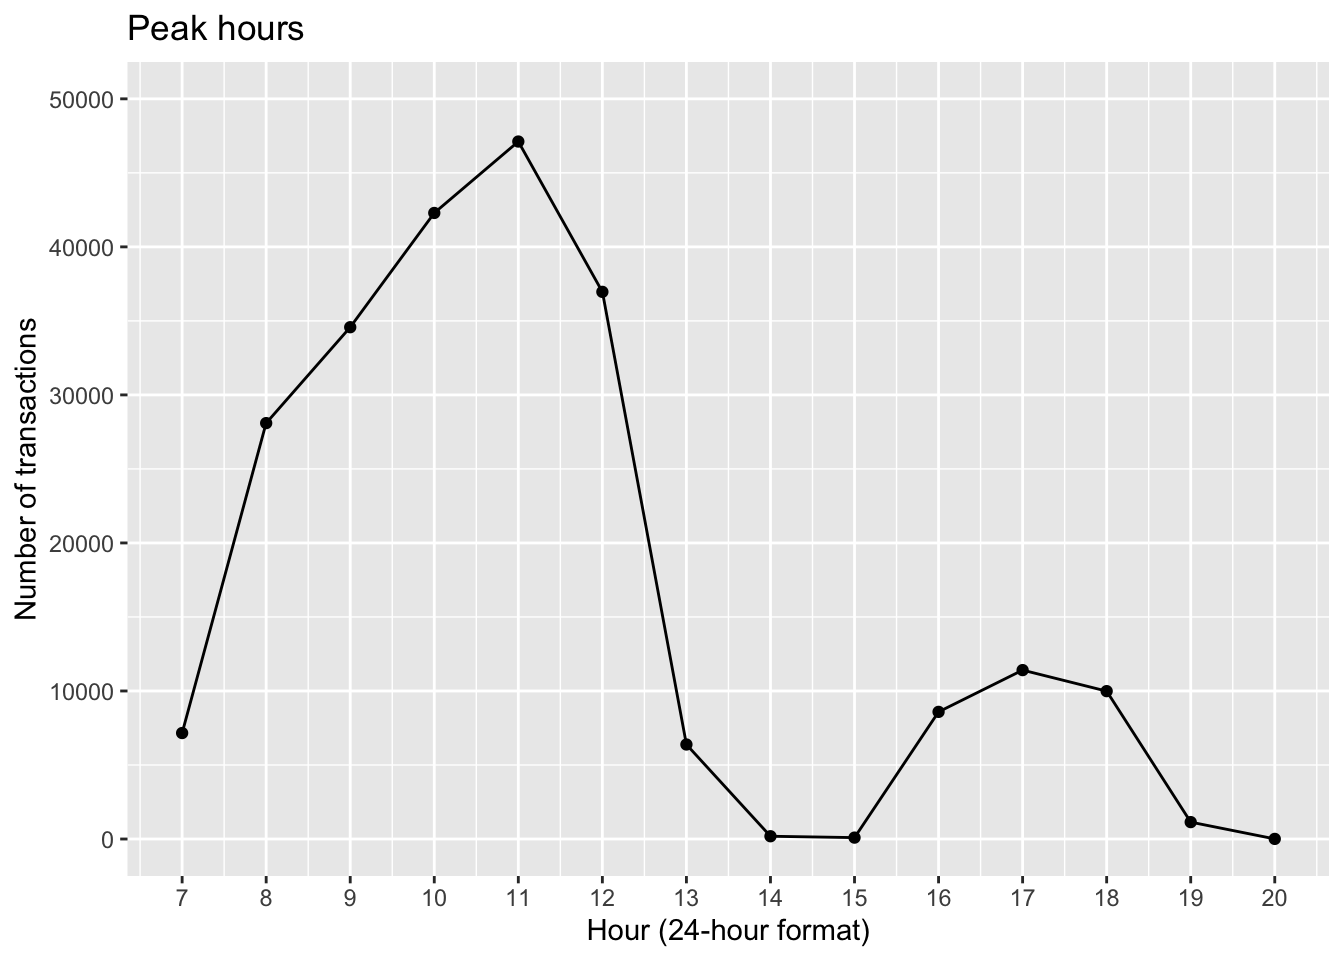
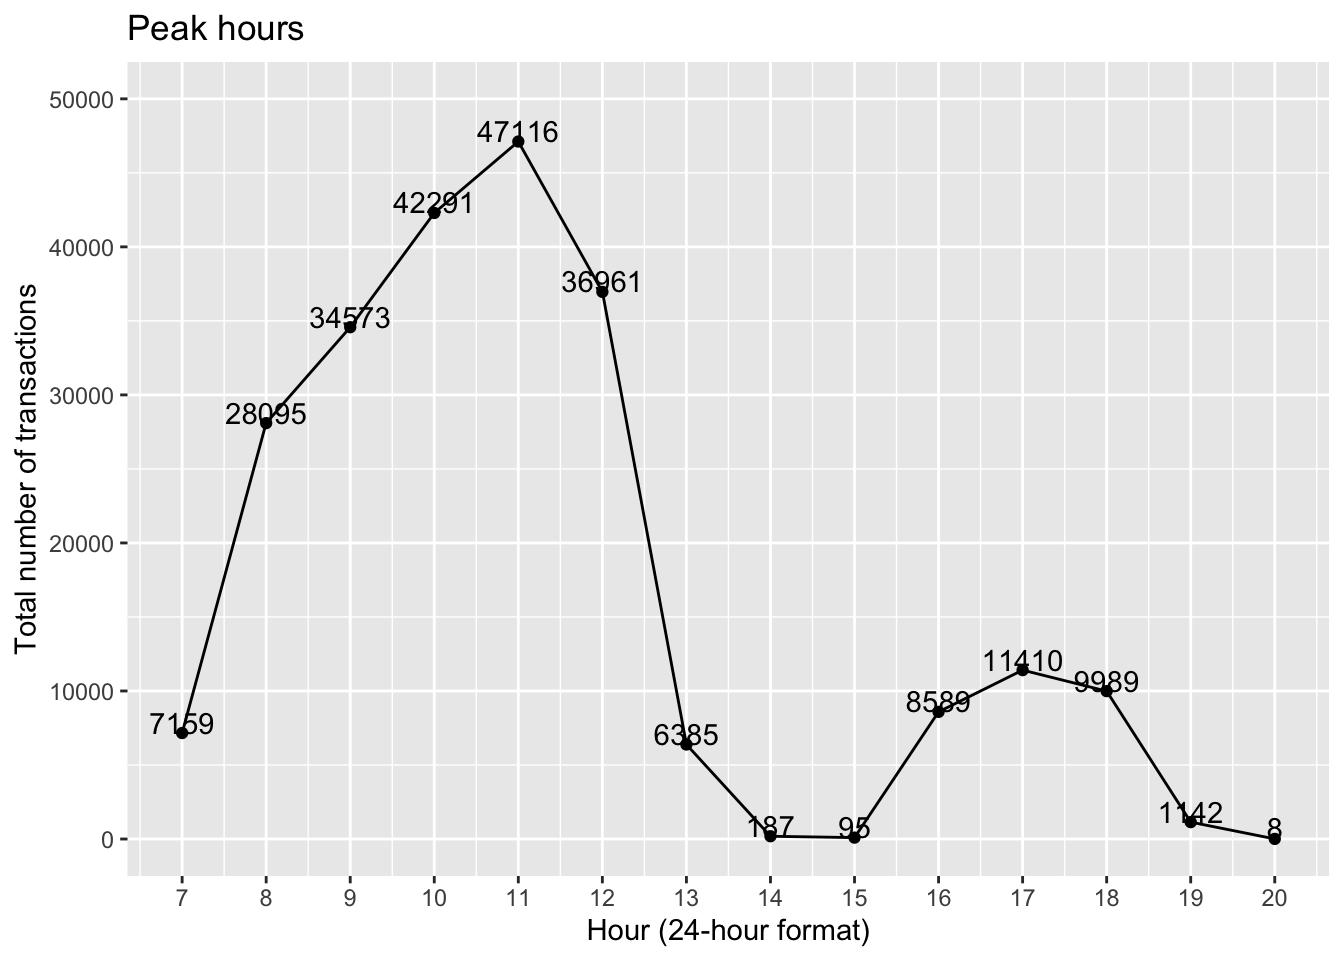
description of 24hr Time trends

diff --git a/plot.html b/plot.html
@@ -464,12 +464,23 @@ bakery_df %&gt;%
   ggplot(aes(x = Hour, y = n)) +
   geom_point() +
   geom_line() +
+  geom_text(aes(label=n), vjust = 0, nudge_y = 0.2) +
   scale_x_continuous(breaks = seq(7, 20), limit = c(7, 20)) +
   scale_y_continuous(limit = c(0,50000)) +
   labs(title = &quot;Peak hours&quot;,
        x = &quot;Hour (24-hour format)&quot;,
-       y = &quot;Number of transactions&quot;)</code></pre>
+       y = &quot;Total number of transactions&quot;)</code></pre>
 <p><img src="plot_files/figure-html/unnamed-chunk-1-1.png" width="672" /></p>
+<p>The line plot shows the bakery is open at 7 AM and closed at 20 PM.
+The total number of transactions increase dramatically once the bakery
+is open from 7 AM to 11 AM and from 15 PM to 17 PM. It reaches peak at
+11 AM (47116). In addition, the total number of transactions starts
+decreasing steeply from 11 PM to 15 PM and from 17 PM to 20 PM.
+Therefore, there are two rush hours as we expected, since people usually
+eat breads as breakfast, brunch, and afternoon tea dessert.</p>
+<p>
+ 
+</p >
 </div>
 <div id="top-10-favorite-bakery-products" class="section level3">
 <h3>Top 10 favorite bakery products</h3>
@@ -484,8 +495,8 @@ bakery_df %&gt;%
          yaxis = list(showgrid = FALSE, zeroline = FALSE, showticklabels = FALSE))
 
 plot_pie</code></pre>
-<div id="htmlwidget-996efd16032bca7eea34" style="width:672px;height:480px;" class="plotly html-widget"></div>
-<script type="application/json" data-for="htmlwidget-996efd16032bca7eea34">{"x":{"visdat":{"774924a60327":["function () ","plotlyVisDat"]},"cur_data":"774924a60327","attrs":{"774924a60327":{"labels":{},"values":{},"colors":"viridis","alpha_stroke":1,"sizes":[10,100],"spans":[1,20],"type":"pie"}},"layout":{"margin":{"b":40,"l":60,"t":25,"r":10},"xaxis":{"showgrid":false,"zeroline":false,"showticklabels":false},"yaxis":{"showgrid":false,"zeroline":false,"showticklabels":false},"hovermode":"closest","showlegend":true},"source":"A","config":{"modeBarButtonsToAdd":["hoverclosest","hovercompare"],"showSendToCloud":false},"data":[{"labels":["TRADITIONAL BAGUETTE","COUPE","BAGUETTE","BANETTE","CROISSANT","PAIN AU CHOCOLAT","SPECIAL BREAD","CEREAL BAGUETTE","FORMULE SANDWICH","BOULE 400G"],"values":[67689,20470,15292,15130,11508,10578,5195,4961,4202,4099],"type":"pie","marker":{"color":"rgba(31,119,180,1)","line":{"color":"rgba(255,255,255,1)"}},"frame":null}],"highlight":{"on":"plotly_click","persistent":false,"dynamic":false,"selectize":false,"opacityDim":0.2,"selected":{"opacity":1},"debounce":0},"shinyEvents":["plotly_hover","plotly_click","plotly_selected","plotly_relayout","plotly_brushed","plotly_brushing","plotly_clickannotation","plotly_doubleclick","plotly_deselect","plotly_afterplot","plotly_sunburstclick"],"base_url":"https://plot.ly"},"evals":[],"jsHooks":[]}</script>
+<div id="htmlwidget-91bb443258a11981b4e5" style="width:672px;height:480px;" class="plotly html-widget"></div>
+<script type="application/json" data-for="htmlwidget-91bb443258a11981b4e5">{"x":{"visdat":{"788425450211":["function () ","plotlyVisDat"]},"cur_data":"788425450211","attrs":{"788425450211":{"labels":{},"values":{},"colors":"viridis","alpha_stroke":1,"sizes":[10,100],"spans":[1,20],"type":"pie"}},"layout":{"margin":{"b":40,"l":60,"t":25,"r":10},"xaxis":{"showgrid":false,"zeroline":false,"showticklabels":false},"yaxis":{"showgrid":false,"zeroline":false,"showticklabels":false},"hovermode":"closest","showlegend":true},"source":"A","config":{"modeBarButtonsToAdd":["hoverclosest","hovercompare"],"showSendToCloud":false},"data":[{"labels":["TRADITIONAL BAGUETTE","COUPE","BAGUETTE","BANETTE","CROISSANT","PAIN AU CHOCOLAT","SPECIAL BREAD","CEREAL BAGUETTE","FORMULE SANDWICH","BOULE 400G"],"values":[67689,20470,15292,15130,11508,10578,5195,4961,4202,4099],"type":"pie","marker":{"color":"rgba(31,119,180,1)","line":{"color":"rgba(255,255,255,1)"}},"frame":null}],"highlight":{"on":"plotly_click","persistent":false,"dynamic":false,"selectize":false,"opacityDim":0.2,"selected":{"opacity":1},"debounce":0},"shinyEvents":["plotly_hover","plotly_click","plotly_selected","plotly_relayout","plotly_brushed","plotly_brushing","plotly_clickannotation","plotly_doubleclick","plotly_deselect","plotly_afterplot","plotly_sunburstclick"],"base_url":"https://plot.ly"},"evals":[],"jsHooks":[]}</script>
 <p>The pie chart shows the total of sale counts of top 10 favorite
 bakery products from 2021-01-01 to 2022-09-30. As the plot shows that
 the <code>TRADITIONAL BAGUETTE</code> (67,689; 42.5%) is the most
@@ -538,11 +549,11 @@ plot_pie_2022 =
          yaxis = list(showgrid = FALSE, zeroline = FALSE, showticklabels = FALSE))
 
 plot_pie_2021</code></pre>
-<div id="htmlwidget-d9f7fa18930ebb243133" style="width:672px;height:480px;" class="plotly html-widget"></div>
-<script type="application/json" data-for="htmlwidget-d9f7fa18930ebb243133">{"x":{"visdat":{"7749346be489":["function () ","plotlyVisDat"]},"cur_data":"7749346be489","attrs":{"7749346be489":{"labels":{},"values":{},"alpha_stroke":1,"sizes":[10,100],"spans":[1,20],"type":"pie","hole":0.6,"inherit":true}},"layout":{"margin":{"b":40,"l":60,"t":25,"r":10},"title":"Top 10 favorite bakery products in 2021","xaxis":{"showgrid":false,"zeroline":false,"showticklabels":false},"yaxis":{"showgrid":false,"zeroline":false,"showticklabels":false},"hovermode":"closest","showlegend":true},"source":"A","config":{"modeBarButtonsToAdd":["hoverclosest","hovercompare"],"showSendToCloud":false},"data":[{"labels":["TRADITIONAL BAGUETTE","COUPE","BAGUETTE","BANETTE","CROISSANT","PAIN AU CHOCOLAT","CEREAL BAGUETTE","SPECIAL BREAD","CAMPAGNE","BOULE 400G"],"values":[37399,11759,8713,8575,6291,5739,3070,2936,2289,2283],"type":"pie","hole":0.6,"marker":{"color":"rgba(31,119,180,1)","line":{"color":"rgba(255,255,255,1)"}},"frame":null}],"highlight":{"on":"plotly_click","persistent":false,"dynamic":false,"selectize":false,"opacityDim":0.2,"selected":{"opacity":1},"debounce":0},"shinyEvents":["plotly_hover","plotly_click","plotly_selected","plotly_relayout","plotly_brushed","plotly_brushing","plotly_clickannotation","plotly_doubleclick","plotly_deselect","plotly_afterplot","plotly_sunburstclick"],"base_url":"https://plot.ly"},"evals":[],"jsHooks":[]}</script>
+<div id="htmlwidget-5b214b57a57fdb1a3a08" style="width:672px;height:480px;" class="plotly html-widget"></div>
+<script type="application/json" data-for="htmlwidget-5b214b57a57fdb1a3a08">{"x":{"visdat":{"788478bcccc":["function () ","plotlyVisDat"]},"cur_data":"788478bcccc","attrs":{"788478bcccc":{"labels":{},"values":{},"alpha_stroke":1,"sizes":[10,100],"spans":[1,20],"type":"pie","hole":0.6,"inherit":true}},"layout":{"margin":{"b":40,"l":60,"t":25,"r":10},"title":"Top 10 favorite bakery products in 2021","xaxis":{"showgrid":false,"zeroline":false,"showticklabels":false},"yaxis":{"showgrid":false,"zeroline":false,"showticklabels":false},"hovermode":"closest","showlegend":true},"source":"A","config":{"modeBarButtonsToAdd":["hoverclosest","hovercompare"],"showSendToCloud":false},"data":[{"labels":["TRADITIONAL BAGUETTE","COUPE","BAGUETTE","BANETTE","CROISSANT","PAIN AU CHOCOLAT","CEREAL BAGUETTE","SPECIAL BREAD","CAMPAGNE","BOULE 400G"],"values":[37399,11759,8713,8575,6291,5739,3070,2936,2289,2283],"type":"pie","hole":0.6,"marker":{"color":"rgba(31,119,180,1)","line":{"color":"rgba(255,255,255,1)"}},"frame":null}],"highlight":{"on":"plotly_click","persistent":false,"dynamic":false,"selectize":false,"opacityDim":0.2,"selected":{"opacity":1},"debounce":0},"shinyEvents":["plotly_hover","plotly_click","plotly_selected","plotly_relayout","plotly_brushed","plotly_brushing","plotly_clickannotation","plotly_doubleclick","plotly_deselect","plotly_afterplot","plotly_sunburstclick"],"base_url":"https://plot.ly"},"evals":[],"jsHooks":[]}</script>
 <pre class="r"><code>plot_pie_2022</code></pre>
-<div id="htmlwidget-7769de4a2747b3cf7c8a" style="width:672px;height:480px;" class="plotly html-widget"></div>
-<script type="application/json" data-for="htmlwidget-7769de4a2747b3cf7c8a">{"x":{"visdat":{"77491768f942":["function () ","plotlyVisDat"]},"cur_data":"77491768f942","attrs":{"77491768f942":{"labels":{},"values":{},"alpha_stroke":1,"sizes":[10,100],"spans":[1,20],"type":"pie","hole":0.6,"inherit":true}},"layout":{"margin":{"b":40,"l":60,"t":25,"r":10},"title":"Top 10 favorite bakery products in 2022","xaxis":{"showgrid":false,"zeroline":false,"showticklabels":false},"yaxis":{"showgrid":false,"zeroline":false,"showticklabels":false},"hovermode":"closest","showlegend":true},"source":"A","config":{"modeBarButtonsToAdd":["hoverclosest","hovercompare"],"showSendToCloud":false},"data":[{"labels":["TRADITIONAL BAGUETTE","COUPE","BAGUETTE","BANETTE","CROISSANT","PAIN AU CHOCOLAT","SPECIAL BREAD","FORMULE SANDWICH","CEREAL BAGUETTE","BOULE 400G"],"values":[30290,8711,6579,6555,5217,4839,2259,1976,1891,1816],"type":"pie","hole":0.6,"marker":{"color":"rgba(31,119,180,1)","line":{"color":"rgba(255,255,255,1)"}},"frame":null}],"highlight":{"on":"plotly_click","persistent":false,"dynamic":false,"selectize":false,"opacityDim":0.2,"selected":{"opacity":1},"debounce":0},"shinyEvents":["plotly_hover","plotly_click","plotly_selected","plotly_relayout","plotly_brushed","plotly_brushing","plotly_clickannotation","plotly_doubleclick","plotly_deselect","plotly_afterplot","plotly_sunburstclick"],"base_url":"https://plot.ly"},"evals":[],"jsHooks":[]}</script>
+<div id="htmlwidget-d20f15b49d29b2e03dbc" style="width:672px;height:480px;" class="plotly html-widget"></div>
+<script type="application/json" data-for="htmlwidget-d20f15b49d29b2e03dbc">{"x":{"visdat":{"78846b3268f2":["function () ","plotlyVisDat"]},"cur_data":"78846b3268f2","attrs":{"78846b3268f2":{"labels":{},"values":{},"alpha_stroke":1,"sizes":[10,100],"spans":[1,20],"type":"pie","hole":0.6,"inherit":true}},"layout":{"margin":{"b":40,"l":60,"t":25,"r":10},"title":"Top 10 favorite bakery products in 2022","xaxis":{"showgrid":false,"zeroline":false,"showticklabels":false},"yaxis":{"showgrid":false,"zeroline":false,"showticklabels":false},"hovermode":"closest","showlegend":true},"source":"A","config":{"modeBarButtonsToAdd":["hoverclosest","hovercompare"],"showSendToCloud":false},"data":[{"labels":["TRADITIONAL BAGUETTE","COUPE","BAGUETTE","BANETTE","CROISSANT","PAIN AU CHOCOLAT","SPECIAL BREAD","FORMULE SANDWICH","CEREAL BAGUETTE","BOULE 400G"],"values":[30290,8711,6579,6555,5217,4839,2259,1976,1891,1816],"type":"pie","hole":0.6,"marker":{"color":"rgba(31,119,180,1)","line":{"color":"rgba(255,255,255,1)"}},"frame":null}],"highlight":{"on":"plotly_click","persistent":false,"dynamic":false,"selectize":false,"opacityDim":0.2,"selected":{"opacity":1},"debounce":0},"shinyEvents":["plotly_hover","plotly_click","plotly_selected","plotly_relayout","plotly_brushed","plotly_brushing","plotly_clickannotation","plotly_doubleclick","plotly_deselect","plotly_afterplot","plotly_sunburstclick"],"base_url":"https://plot.ly"},"evals":[],"jsHooks":[]}</script>
 <p>The first donut chart shows the total of sale counts of top 10
 favorite bakery products from 2021-01-01 to 2021-12-31. As the plot
 shows that the <code>TRADITIONAL BAGUETTE</code> (37,399; 42%) is the
